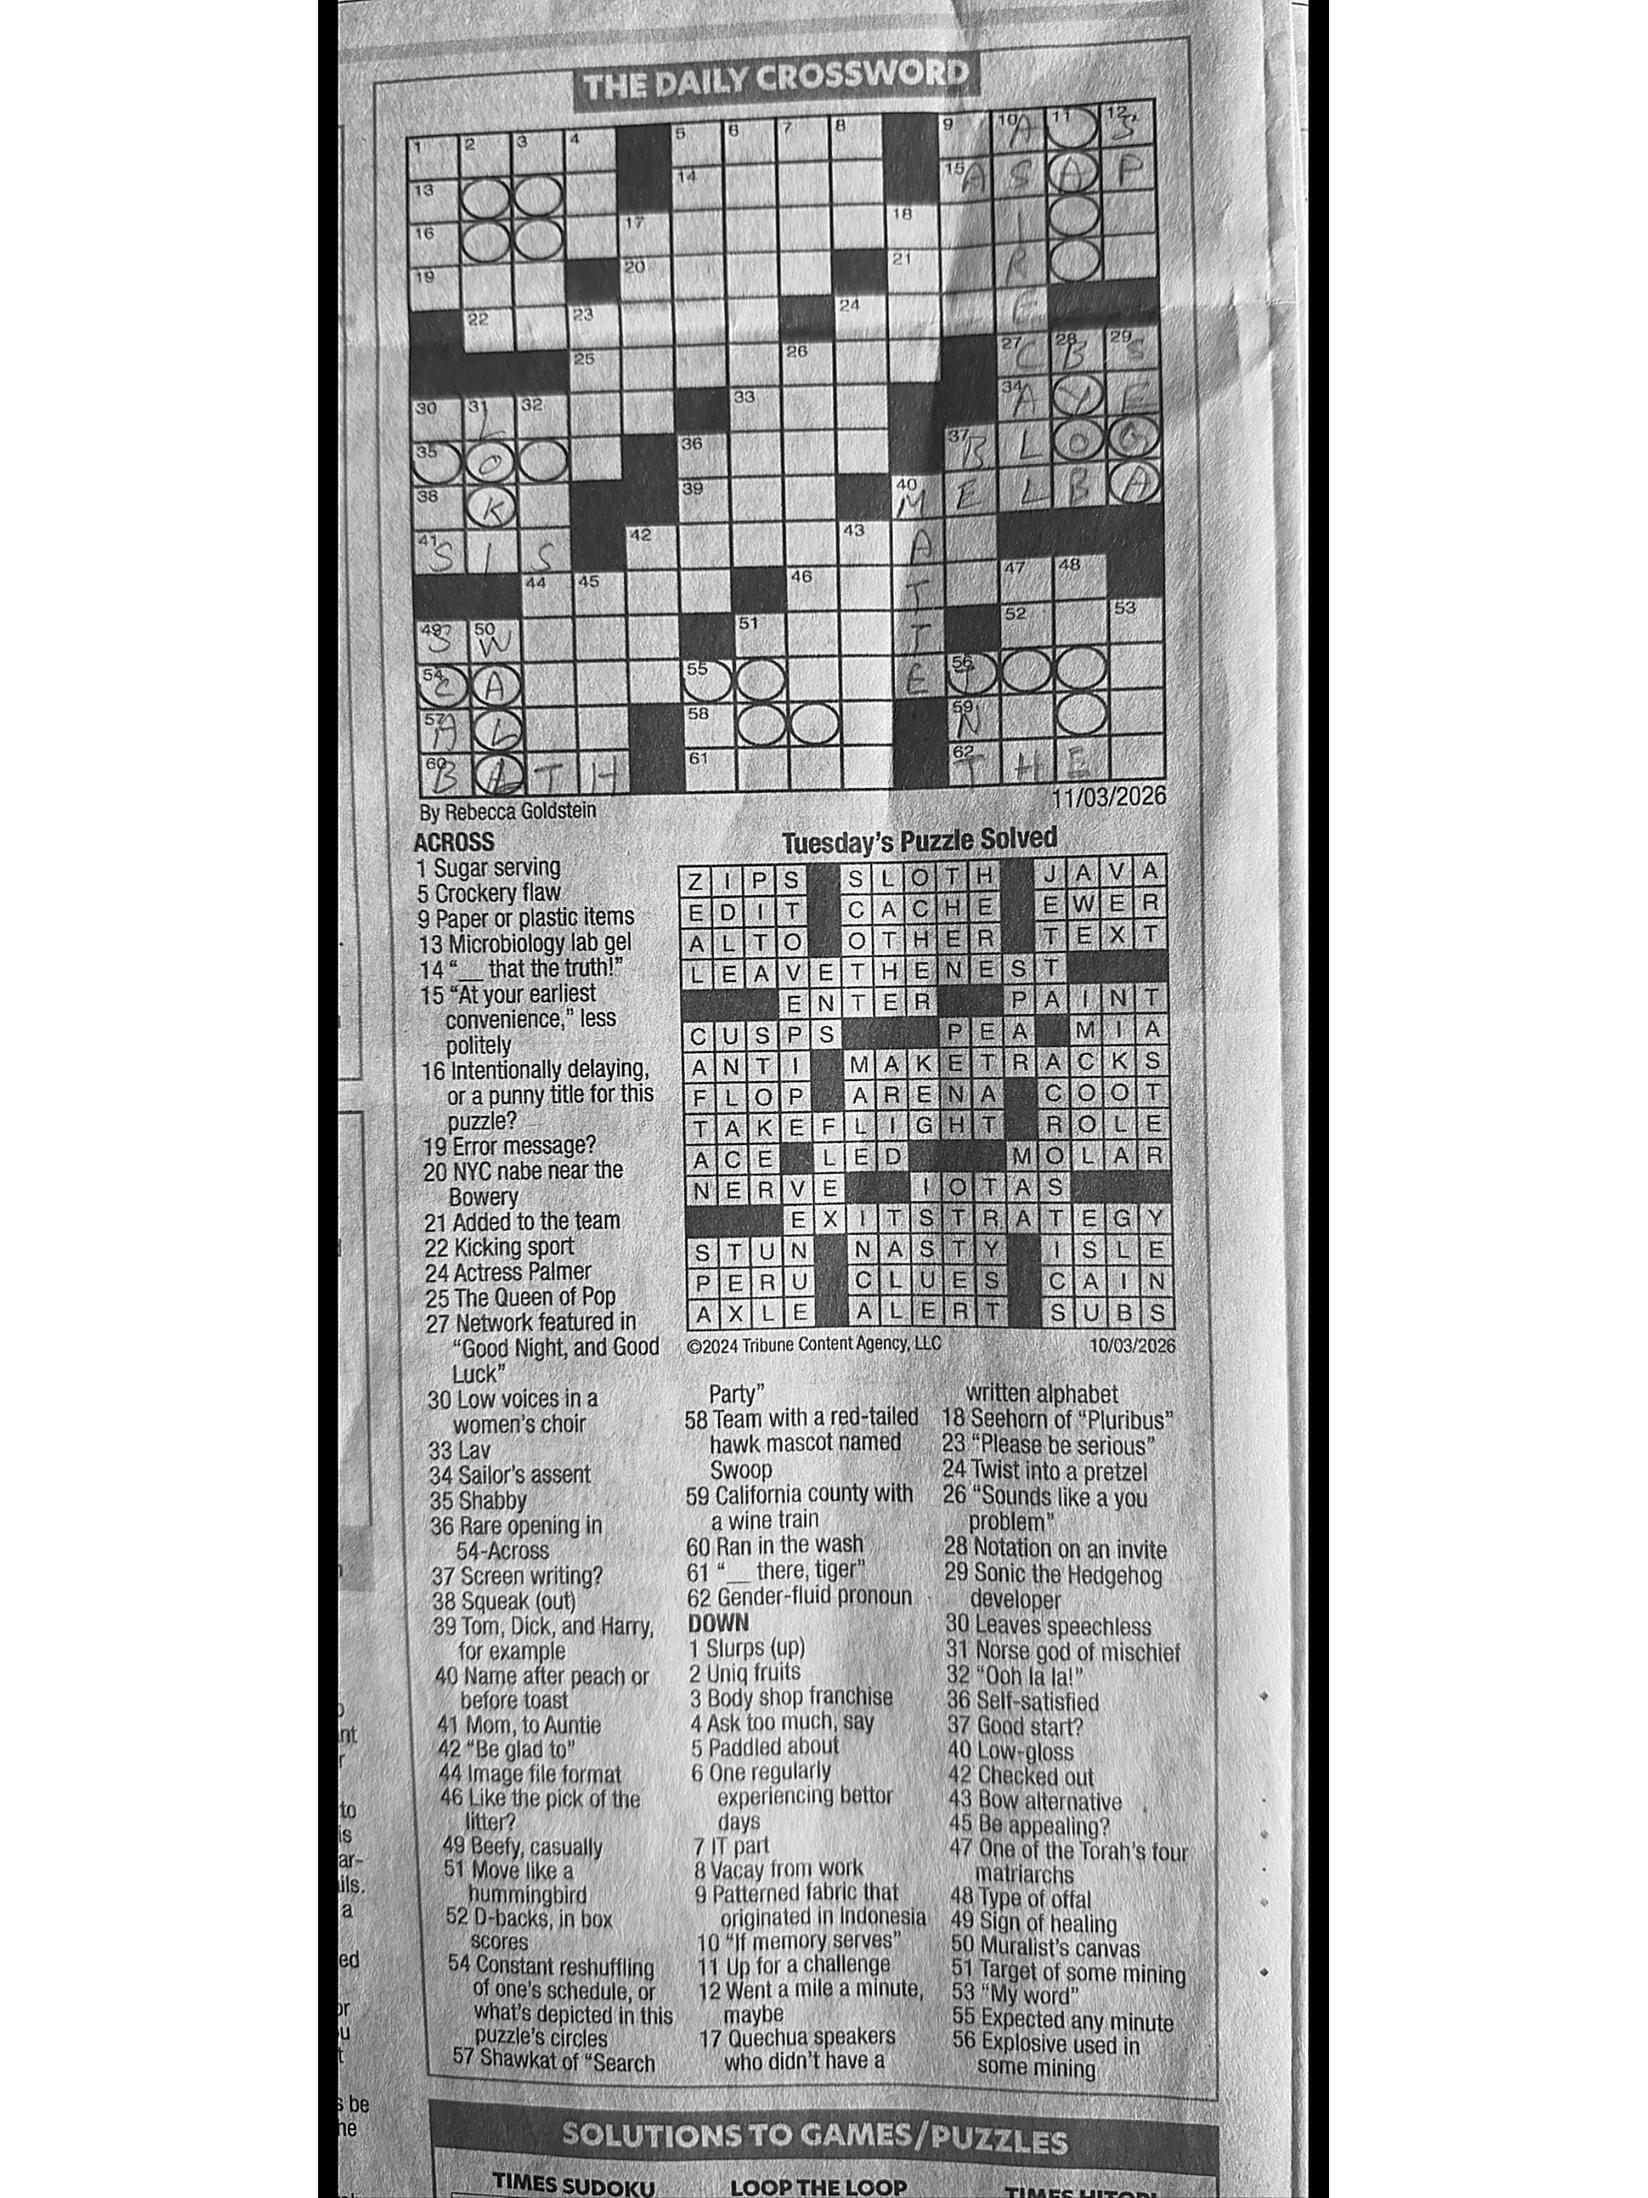
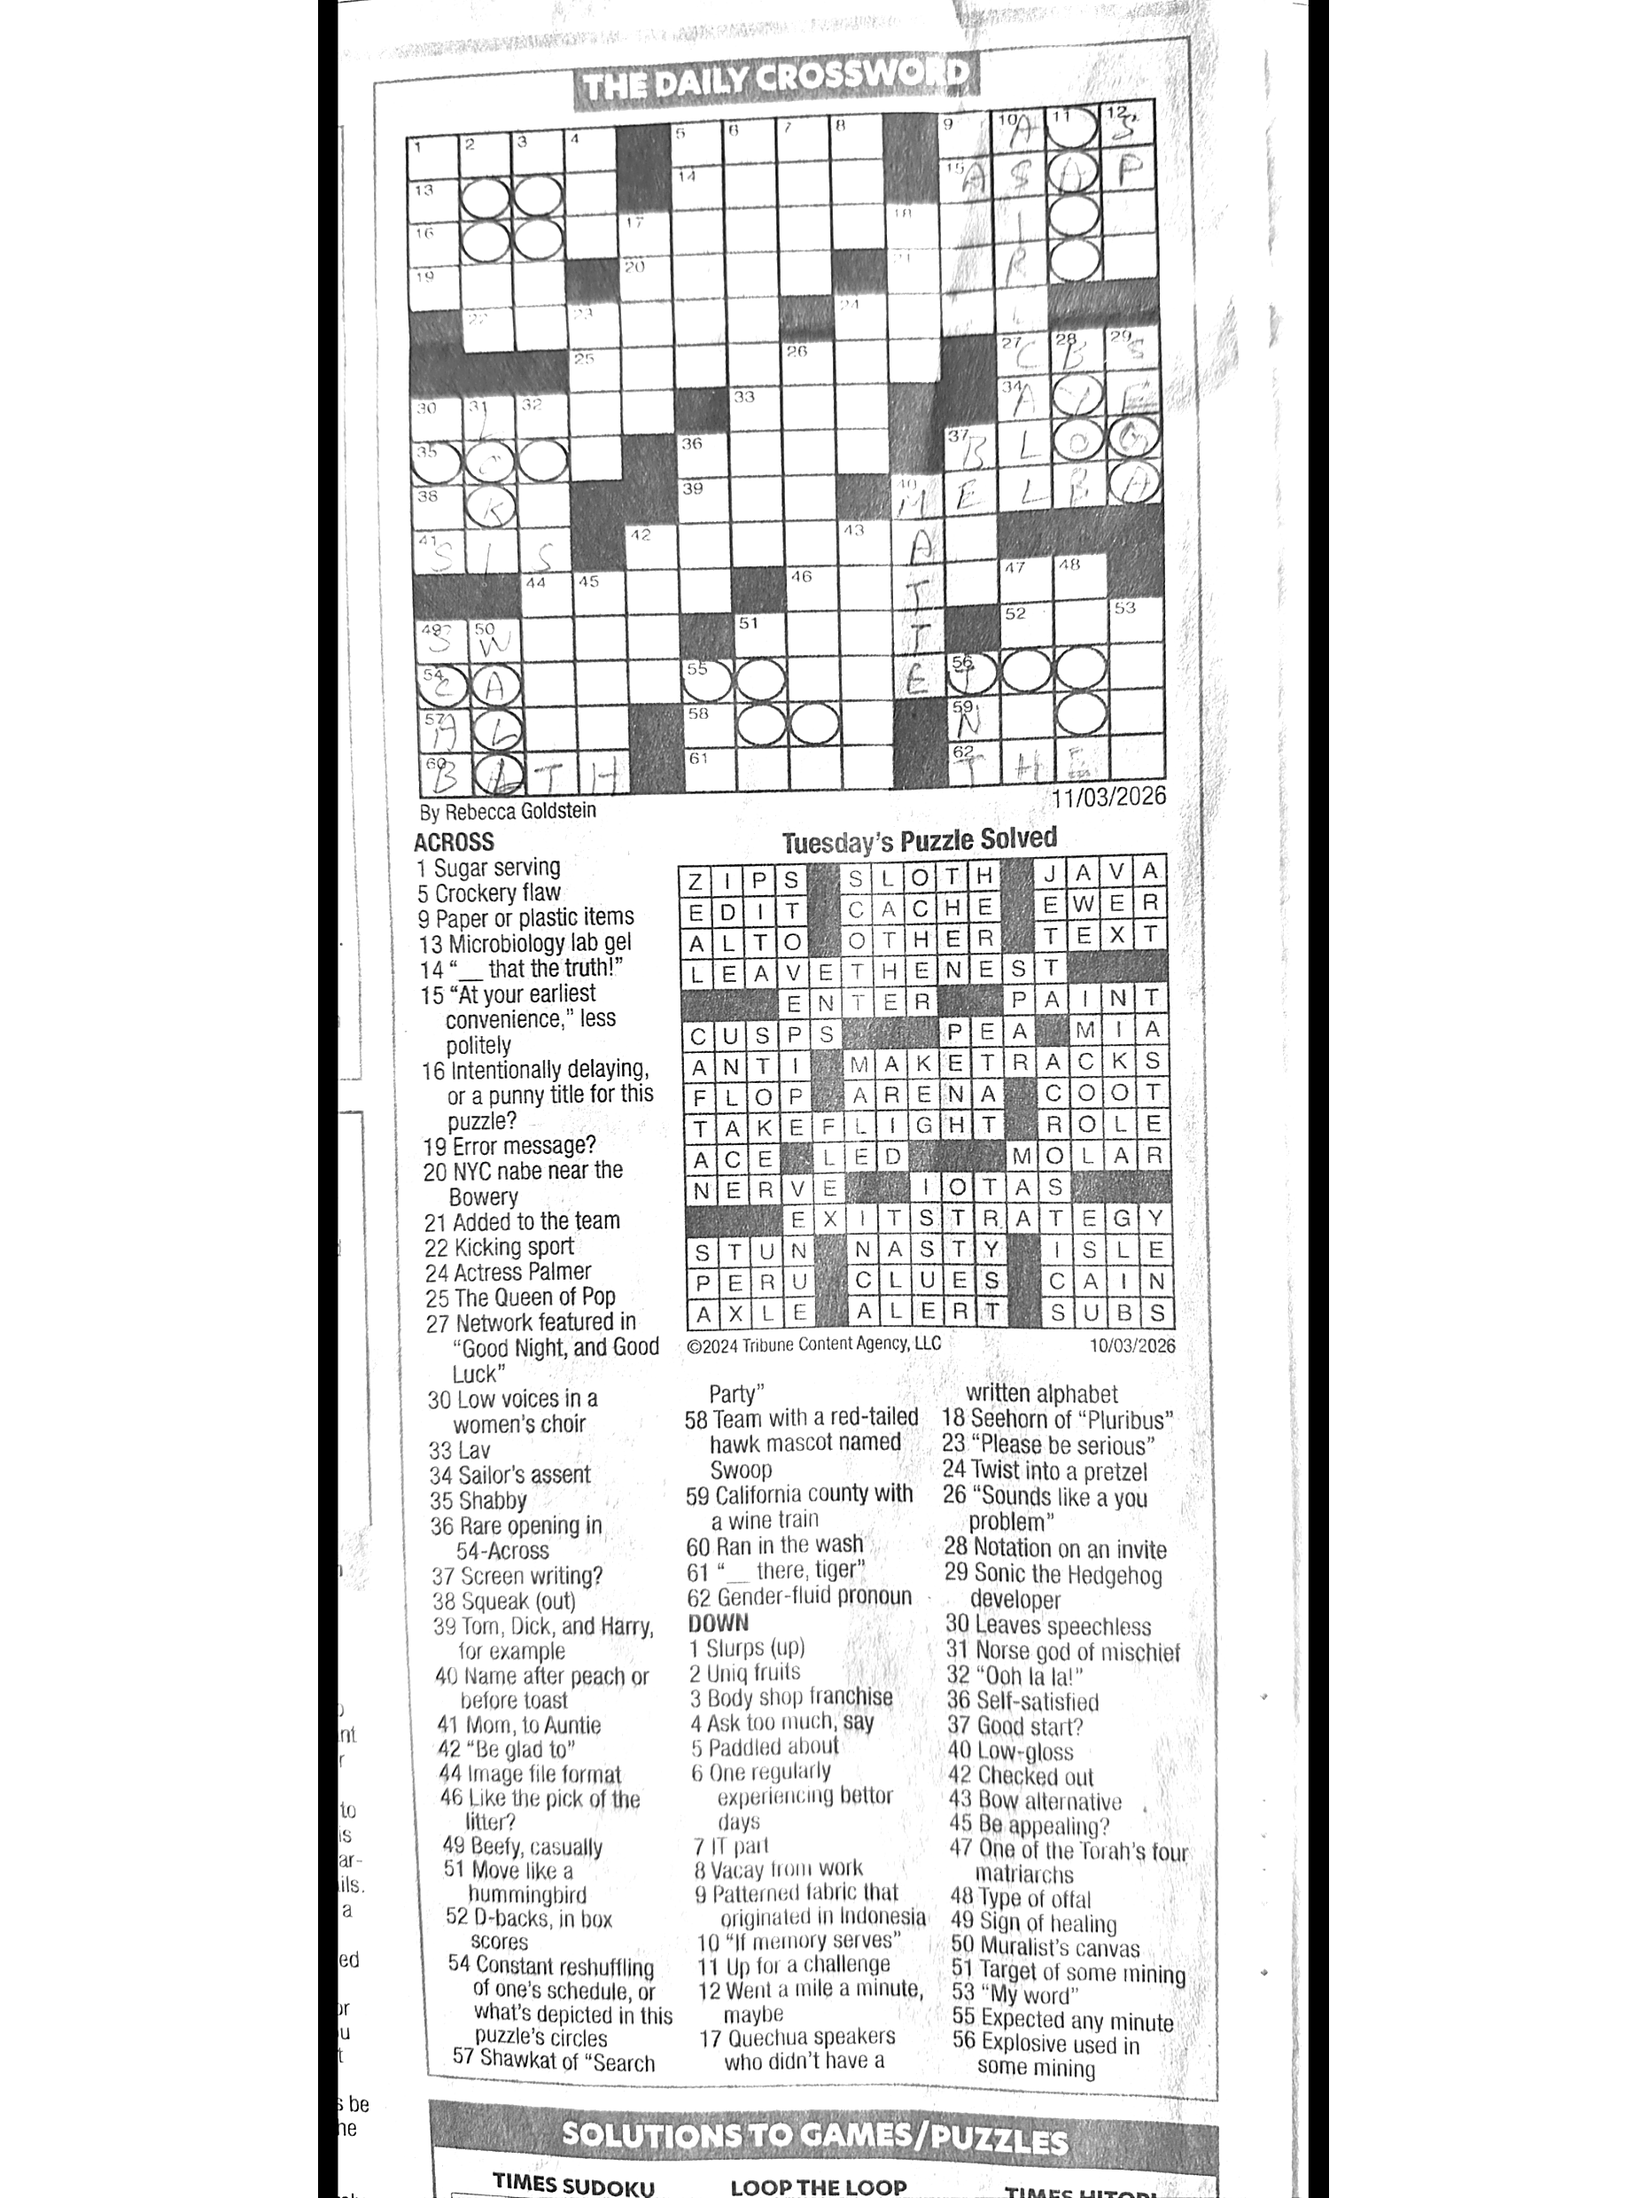
Restore background normalization — the key step for good output
Comparison showed the "good" grayscale outputs used _normalize_background()
(divide by blurred self) to remove shadows and uneven lighting from phone
photos. The current pipeline had dropped this step. Restoring it brings
kindle output quality back in line with the grayscale versions.

https://claude.ai/code/session_01BaJXRtzuHPrvpeiTFP3pVD

diff --git a/kindle-crossword/app/image_processor.py b/kindle-crossword/app/image_processor.py
@@ -45,6 +45,11 @@ def process_image(input_path: str, output_path: str, options: dict) -> dict:
 
     img = _to_grayscale(img)
 
+    # Background normalization: removes shadows, uneven lighting, newspaper tint.
+    # Divides by a heavily blurred copy to flatten background to white while
+    # preserving text/lines as dark.
+    img = _normalize_background(img)
+
     # Resize for Kindle
     target = options.get("kindle_model", "scribe")
     img = _resize_for_kindle(img, target)
